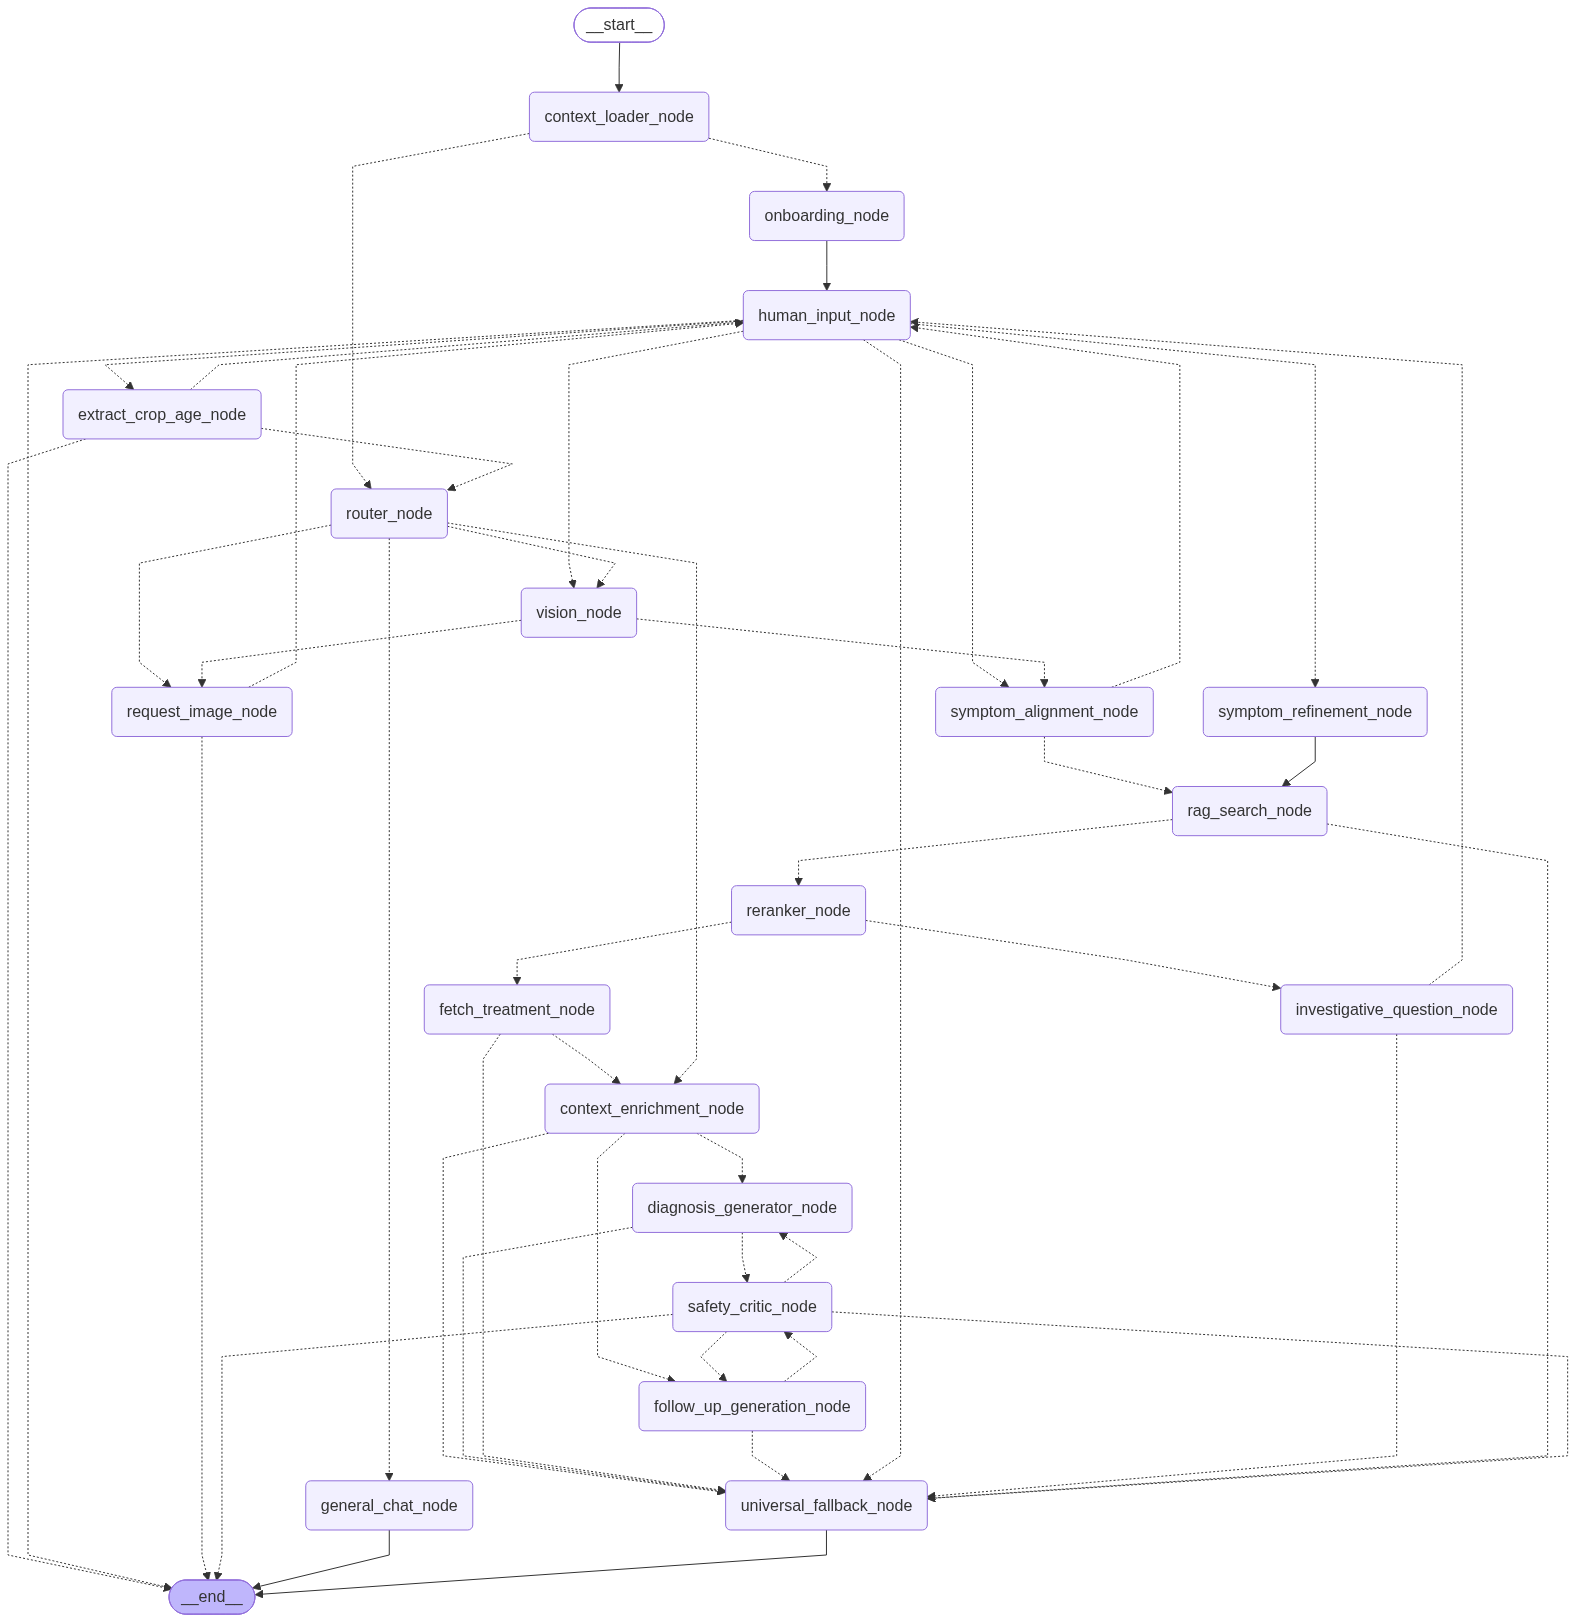
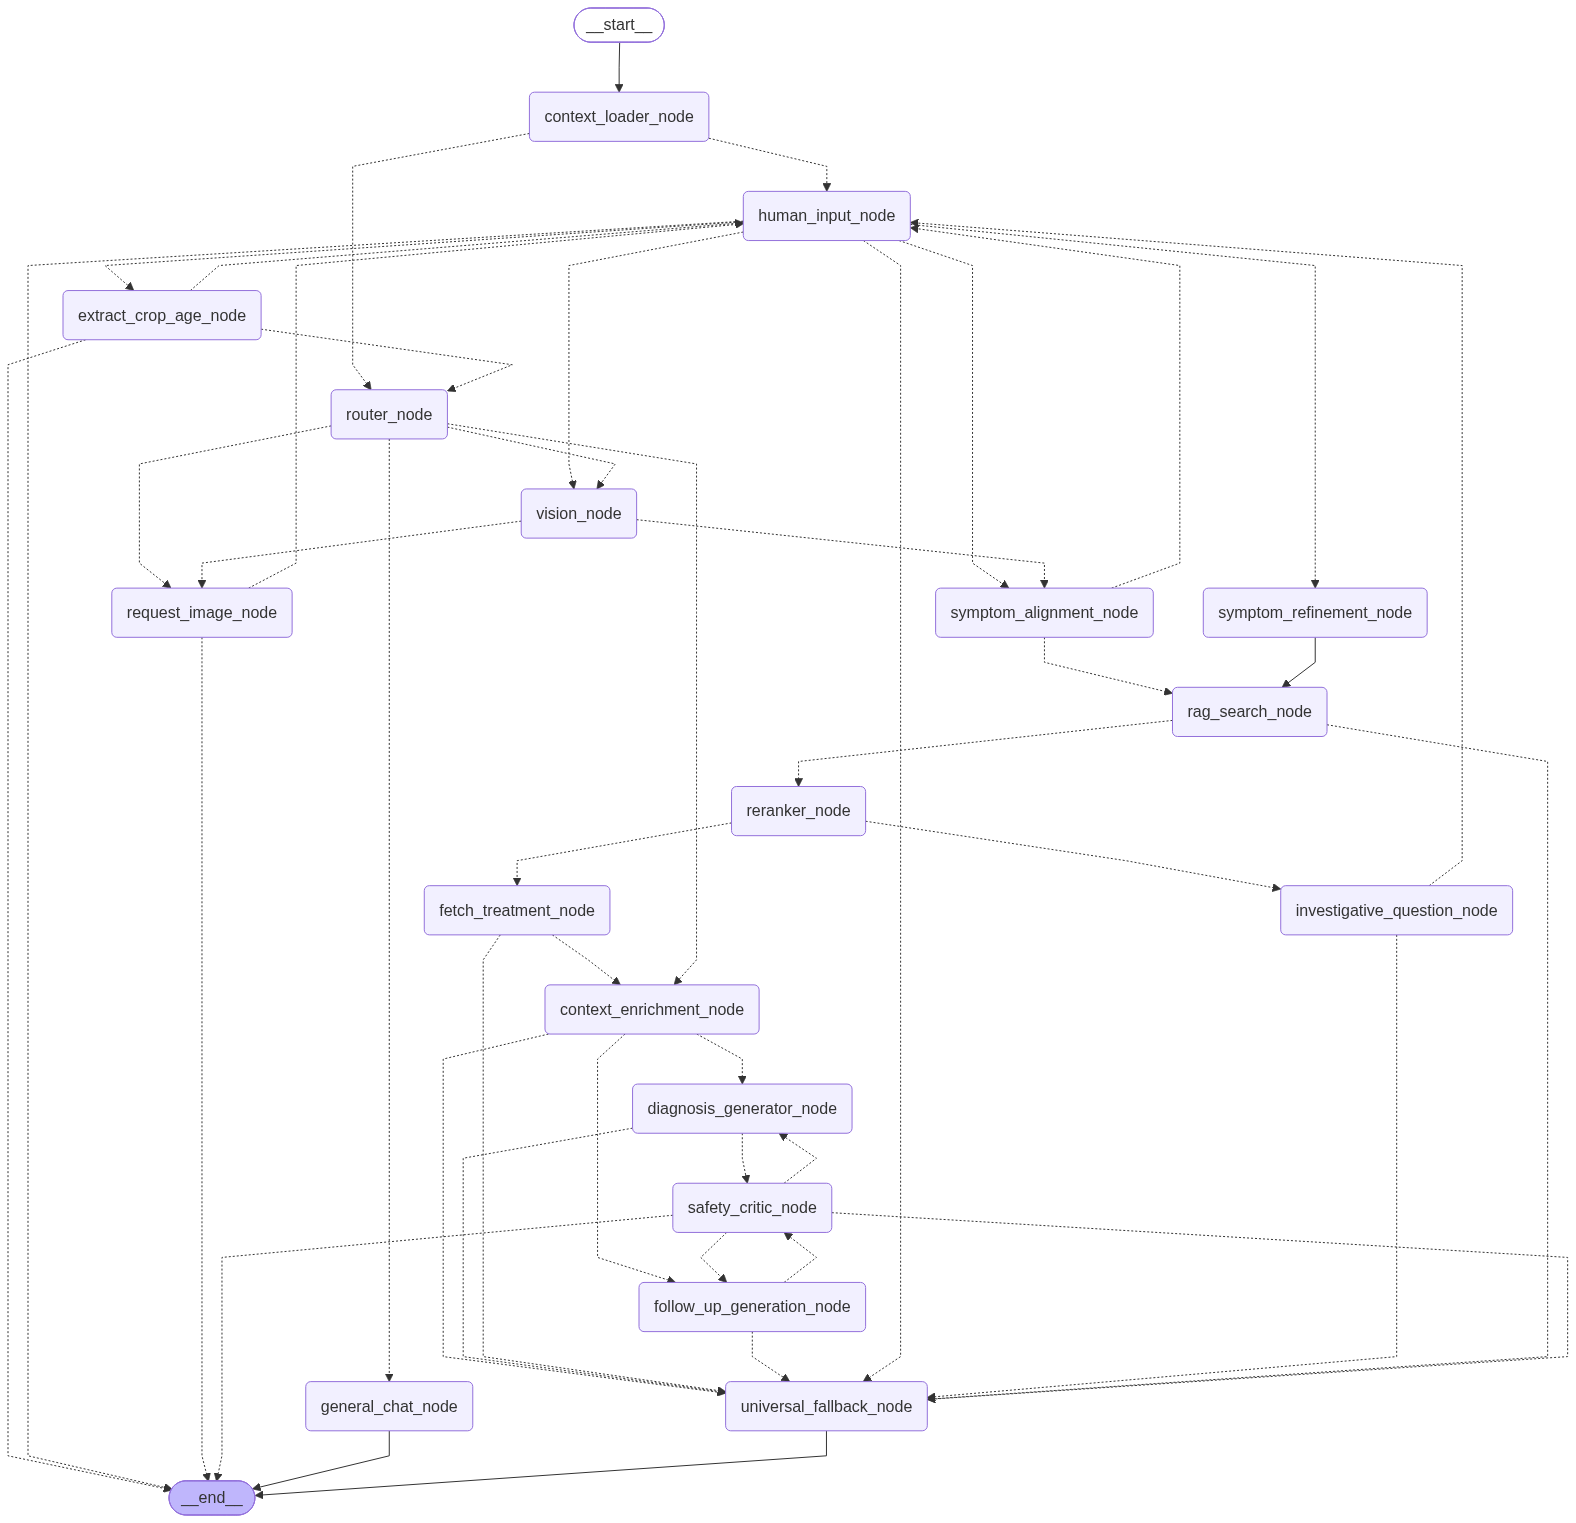
feat: remove onboarding node, add crop cycle creation, and update AI messages

diff --git a/backend/ai_core/nodes/extract_crop_age_node.py b/backend/ai_core/nodes/extract_crop_age_node.py
@@ -3,8 +3,9 @@
 import logging
 from datetime import datetime, timedelta, timezone
 from typing import Any
-
-from ai_core.constants import ONBOARDING_NODE
+import uuid
+from database.postgres_ai import create_crop_cycle
+from ai_core.constants import CONTEXT_LOADER_NODE
 from ai_core.llm_config import lightweight_llm
 from ai_core.state import PaddyGraphState
 from ai_core.utils.agronomy import calculate_paddy_stage
@@ -15,12 +16,13 @@ logger = logging.getLogger(__name__)
 # Prevent infinite loops
 MAX_RETRIES = 2
 
-def extract_crop_age_node(state: PaddyGraphState) -> dict[str, Any]:
+async def extract_crop_age_node(state: PaddyGraphState) -> dict[str, Any]:
     """
     Uses the lightweight Gemma model to parse fuzzy text into exact days.
     """
     farmer_answer = state.get("clarification_answer", "")
     retry_count = state.get("retry_count", 0)
+    user_id = state.get("user_id")
 
     logger.info(f"Extracting crop age from text: '{farmer_answer}'")
 
@@ -33,7 +35,7 @@ def extract_crop_age_node(state: PaddyGraphState) -> dict[str, Any]:
     )
 
     try:
-        result: CropAgeExtraction = structured_llm.invoke(prompt)
+        result: CropAgeExtraction = structured_llm.ainvoke(prompt)
     except Exception:
         logger.exception(f"LLM parsing failed for input: '{farmer_answer}'")
         result = CropAgeExtraction(is_understood=False, age_in_days=None)
@@ -45,7 +47,7 @@ def extract_crop_age_node(state: PaddyGraphState) -> dict[str, Any]:
         # Check for Max Retries
         if new_retry >= MAX_RETRIES:
             return {
-                "final_diagnosis": "I'm having trouble understanding the crop age. Let's start over when you're ready.",
+                "final_diagnosis": "I couldn't determine the crop age, so I had to stop. Please start again and tell me the crop age.",
                 "paused_by": "fatal_error",
                 "have_question": False,
             }
@@ -53,20 +55,29 @@ def extract_crop_age_node(state: PaddyGraphState) -> dict[str, Any]:
         # First failure -> Ask again
         return {
             "have_question": True,
-            "clarifying_question": "I didn't quite get that. Could you say it simply like '45 days' or '3 weeks'?",
+            "clarifying_question": "I couldn't understand the crop age. Please tell me how old the crop is, for example, 45 days or 3 weeks.",
             "retry_count": new_retry,
-            "paused_by": ONBOARDING_NODE,
+            "paused_by": CONTEXT_LOADER_NODE,
             "clarification_answer": None,
         }
 
     age_days = result.age_in_days
-
     planting_date_obj = datetime.now(timezone.utc) - timedelta(days=age_days)
     planting_date_iso = planting_date_obj.strftime("%Y-%m-%d")
-
     crop_stage = calculate_paddy_stage(age_days)
 
+    new_cycle_id = None
+    if user_id:
+        try:
+            new_cycle_id = await create_crop_cycle(
+                user_id=uuid.UUID(str(user_id)), 
+                planting_date=planting_date_obj.date()
+            )
+        except Exception :
+            logger.exception("Failed to create crop cycle DB record")
+
     return {
+        "cycle_id": str(new_cycle_id) if new_cycle_id else None,
         "crop_age_days": age_days,
         "planting_date": planting_date_iso,
         "crop_stage": crop_stage,

diff --git a/backend/database/postgres_ai.py b/backend/database/postgres_ai.py
@@ -1,8 +1,8 @@
-"""database/postgres_ai.py: Fetches treatment guides and AI context from PostgreSQL."""
+"""database/postgres_ai.py: Handles PostgreSQL operations for ai_core."""
 
 import logging
 import uuid
-from datetime import datetime, timezone
+from datetime import date, datetime, timedelta, timezone
 from typing import Any
 
 from database.session import SessionLocal
@@ -18,6 +18,37 @@ from sqlalchemy import desc, select
 logger = logging.getLogger(__name__)
 
 
+# Creates a new crop cycle.
+async def create_crop_cycle(
+    user_id: uuid.UUID, planting_date: date
+) -> uuid.UUID | None:
+    """
+    Creates a new CropCycle record in the database.
+    Automatically calculates expected_harvest_date as 120 days from planting.
+    """
+    # Calculate 120 days for harvest
+    expected_harvest_date = planting_date + timedelta(days=120)
+
+    try:
+        async with SessionLocal() as db:
+            new_cycle = CropCycle(
+                user_id=user_id,
+                planting_date=planting_date,
+                expected_harvest_date=expected_harvest_date,
+            )
+
+            db.add(new_cycle)
+            await db.commit()
+
+            await db.refresh(new_cycle)
+
+            return new_cycle.cycle_id
+    except Exception:
+        logger.exception("Error while creating CropCycle")
+        return None
+
+
+# Fetches treatment details for a disease.
 async def get_treatment_by_disease_id(disease_id: str) -> dict[str, Any] | None:
     """
     Fetches exact treatment guides and weather constraints from the relational database.
@@ -47,6 +78,7 @@ async def get_treatment_by_disease_id(disease_id: str) -> dict[str, Any] | None:
             return None
 
 
+# Fetches the user's active crop context.
 async def get_active_crop_context(user_id: str) -> dict[str, Any] | None:
     """
     Fetches the active crop cycle and the farm's GPS coordinates.
@@ -85,6 +117,7 @@ async def get_active_crop_context(user_id: str) -> dict[str, Any] | None:
             return None
 
 
+# Fetches recent chat history for a crop cycle.
 async def get_recent_chat_history(
     cycle_id: str, limit: int = 6
 ) -> list[dict[str, str]]:
@@ -124,6 +157,7 @@ async def get_recent_chat_history(
             return "No previous history."
 
 
+# Fetches the crop's medical treatment timeline.
 async def get_medical_timeline(cycle_id: str) -> str | None:
     """
     Fetches the log of previous events and formats it into a
@@ -157,4 +191,7 @@ async def get_medical_timeline(cycle_id: str) -> str | None:
 
         except Exception:
             logger.exception(f"Failed to fetch medical timeline for cycle {cycle_id}")
+            return None
+            return None
+            return None
             return None

diff --git a/backend/ai_core/graph.py b/backend/ai_core/graph.py
@@ -16,7 +16,6 @@ from ai_core.nodes import (
     general_chat_node,
     human_input_node,
     investigative_question_node,
-    onboarding_node,
     rag_search_node,
     request_image_node,
     reranker_node,
@@ -40,7 +39,6 @@ def build_uncompiled_graph() -> StateGraph:
     workflow = StateGraph(PaddyGraphState)
 
     workflow.add_node(consts.CONTEXT_LOADER_NODE, context_loader_node.context_loader_node)
-    workflow.add_node(consts.ONBOARDING_NODE, onboarding_node.onboarding_node)
     workflow.add_node(consts.HUMAN_INPUT_NODE, human_input_node.human_input_node)
     workflow.add_node(consts.ROUTER_NODE, router_node.router_node)
     workflow.add_node(consts.VISION_NODE, vision_node.vision_node)
@@ -86,12 +84,10 @@ def build_uncompiled_graph() -> StateGraph:
         consts.CONTEXT_LOADER_NODE,
         edges.route_after_context_loader,
         {
-            consts.ONBOARDING_NODE: consts.ONBOARDING_NODE,
+            consts.HUMAN_INPUT_NODE: consts.HUMAN_INPUT_NODE,
             consts.ROUTER_NODE: consts.ROUTER_NODE,
         },
     )
-
-    workflow.add_edge(consts.ONBOARDING_NODE, consts.HUMAN_INPUT_NODE)
 
     workflow.add_conditional_edges(
         consts.HUMAN_INPUT_NODE,

diff --git a/backend/ai_core/nodes/human_input_node.py b/backend/ai_core/nodes/human_input_node.py
@@ -5,14 +5,14 @@ from typing import Any
 
 from ai_core.constants import (
     INVESTIGATIVE_QUESTION_NODE,
-    ONBOARDING_NODE,
+    CONTEXT_LOADER_NODE,
     REQUEST_IMAGE_NODE,
 )
 from ai_core.state import PaddyGraphState
 
 logger = logging.getLogger(__name__)
 
-SYSTEM_PAUSE_NODES = {ONBOARDING_NODE, REQUEST_IMAGE_NODE,INVESTIGATIVE_QUESTION_NODE}
+SYSTEM_PAUSE_NODES = {CONTEXT_LOADER_NODE, REQUEST_IMAGE_NODE,INVESTIGATIVE_QUESTION_NODE}
 
 
 async def human_input_node(state: PaddyGraphState) -> dict[str, Any]:
@@ -35,9 +35,9 @@ async def human_input_node(state: PaddyGraphState) -> dict[str, Any]:
         if not new_images:
             # The user ignored our request for an image!
             logger.warning("User failed to provide requested image. Aborting.")
-            updates["paused_by"] = ("fatal_error",)
+            updates["paused_by"] = ("fatal_error")
             updates["final_diagnosis"] = (
-                "I cannot proceed without a photo. Please start a new request and ensure you attach a clear image."
+                "I need a photo to continue. Please start again with a clear photo."
             )
             return updates
         else:

diff --git a/backend/schemas/db_models.py b/backend/schemas/db_models.py
@@ -96,7 +96,10 @@ class ChatMessage(Base):
         nullable=False,
     )
     role = Column(String(50), nullable=False)
-    content = Column(Text, nullable=False)
+    category = Column(String(50), nullable=False, default="INITIAL_QUERY")
+    language_code = Column(String(10), nullable=False, default="en")
+    display_content = Column(Text, nullable=False)
+    english_content = Column(Text, nullable=False)
     image_urls = Column(ARRAY(String), default=list)
     created_at = Column(DateTime, default=lambda: datetime.now(timezone.utc))
 
@@ -108,7 +111,7 @@ class ChatMessage(Base):
     cycle = relationship("CropCycle", back_populates="chat_messages")
 
     def __repr__(self) -> str:
-        return f"<ChatMessage(id={self.message_id}, cycle_id={self.cycle_id})>"
+        return f"<ChatMessage(id={self.message_id}, cycle_id={self.cycle_id}, role={self.role!r}, category={self.category!r})>"
 
 
 class DiseaseTreatment(Base):

diff --git a/backend/ai_core/edges.py b/backend/ai_core/edges.py
@@ -13,11 +13,11 @@ logger = logging.getLogger(__name__)
 def route_after_context_loader(state: PaddyGraphState) -> str:
     """
     Traffic cop after context is loaded.
-    If we don't know the crop cycle (cycle_id is None), route to onboarding.
+    If we don't know the crop cycle (cycle_id is None), route to human input.
     If we do, proceed directly to the main AI router.
     """
     if not state.get("cycle_id"):
-        return consts.ONBOARDING_NODE
+        return consts.HUMAN_INPUT_NODE
 
     return consts.ROUTER_NODE
 
@@ -37,8 +37,8 @@ def route_after_human_input(state: PaddyGraphState) -> str:
         logger.info("User failed to provide requested information. Routing to END.")
         return END
 
-    # Onboarding Phase
-    if paused_by == consts.ONBOARDING_NODE:
+    # crop Age Extraction Phase
+    if paused_by == consts.CONTEXT_LOADER_NODE:
         return consts.EXTRACT_CROP_AGE_NODE
 
     # Vision Phase

diff --git a/backend/ai_core/nodes/context_loader_node.py b/backend/ai_core/nodes/context_loader_node.py
@@ -1,11 +1,11 @@
-"""ai_core/nodes/context_loader.py: Initial state hydration node."""
+"""ai_core/nodes/context_loader_node.py: Initial state hydration node."""
 
 import logging
 from datetime import datetime, timezone
 from typing import Any
 
 from database.postgres_ai import get_active_crop_context, get_recent_chat_history
-
+from ai_core.constants import CONTEXT_LOADER_NODE
 from ai_core.state import PaddyGraphState
 from ai_core.utils.agronomy import calculate_paddy_stage
 
@@ -32,6 +32,9 @@ async def context_loader_node(state: PaddyGraphState) -> dict[str, Any]:
             "crop_age_days": None,
             "planting_date": None,
             "recent_chat_history": [],
+            "have_question": True,
+            "clarifying_question":"How many days old is your paddy crop?",
+            "paused_by": CONTEXT_LOADER_NODE,
         }
 
     cycle_id = crop_ctx["cycle_id"]

diff --git a/backend/ai_core/nodes/universal_fallback_node.py b/backend/ai_core/nodes/universal_fallback_node.py
@@ -17,9 +17,7 @@ def universal_fallback_node(state: PaddyGraphState) -> dict[str, Any]:
 
     # Generalized response for failure.
     fallback_message = (
-        "I apologize, but I could not find a confident match or encountered an issue processing the data "
-        "for these specific symptoms. To ensure your crop gets the right care, please consult a local "
-        "agricultural expert or try again with clearer photos and descriptions."
+        "I couldn't understand the problem with your crop. Please try again with a clear photo and some details about the problem. You can also contact a local agricultural expert for help."
     )
 
     return {

diff --git a/backend/ai_core/nodes/request_image_node.py b/backend/ai_core/nodes/request_image_node.py
@@ -29,7 +29,7 @@ def request_image_node(state: PaddyGraphState) -> dict[str, Any]:
         if new_retry >= MAX_RETRIES:
             logger.warning("Image retry limit exceeded. Aborting.")
             return {
-                "final_diagnosis": "I cannot analyze these images. They are not clear. Please start again later and upload a clear photo of the plant.",
+                "final_diagnosis": "I couldn't analyze the photo because it was not clear. Please try again with a clear photo of the plant.",
                 "paused_by": "fatal_error",
                 "have_question": False,
                 "is_image_rejected": False,

diff --git a/backend/ai_core/state.py b/backend/ai_core/state.py
@@ -104,7 +104,7 @@ class PaddyGraphState(TypedDict, total=False):
     """Tracks loops to prevent infinite graph execution."""
 
     paused_by: str | None
-    """Records the exact node constant (e.g., ONBOARDING_NODE) that triggered the pause."""
+    """Records the exact node constant that triggered the pause."""
 
     # 9. Output
     final_diagnosis: str | None

diff --git a/backend/ai_core/constants.py b/backend/ai_core/constants.py
@@ -2,7 +2,6 @@
 
 # Node Names
 CONTEXT_LOADER_NODE = "context_loader_node"
-ONBOARDING_NODE = "onboarding_node"
 HUMAN_INPUT_NODE = "human_input_node"
 ROUTER_NODE = "router_node"
 VISION_NODE = "vision_node"
